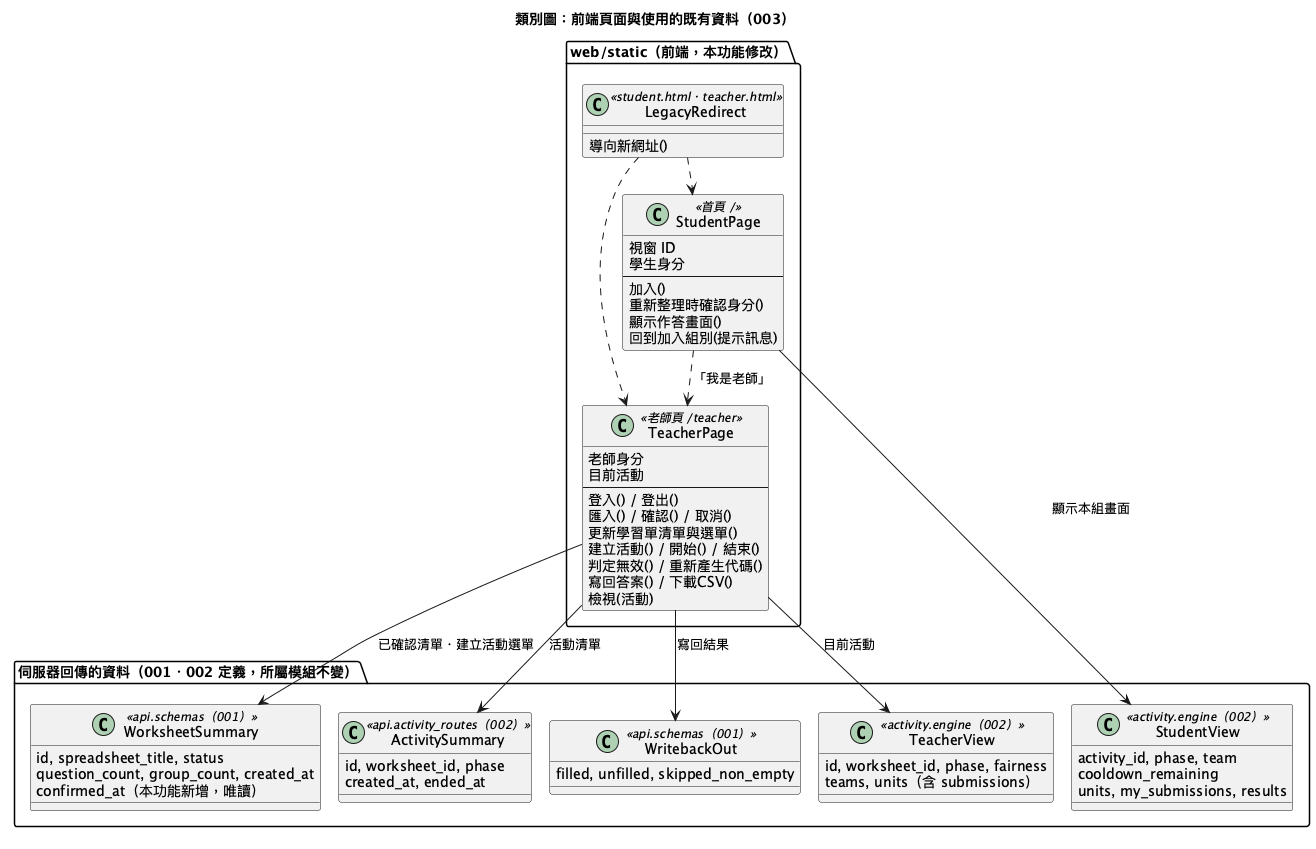
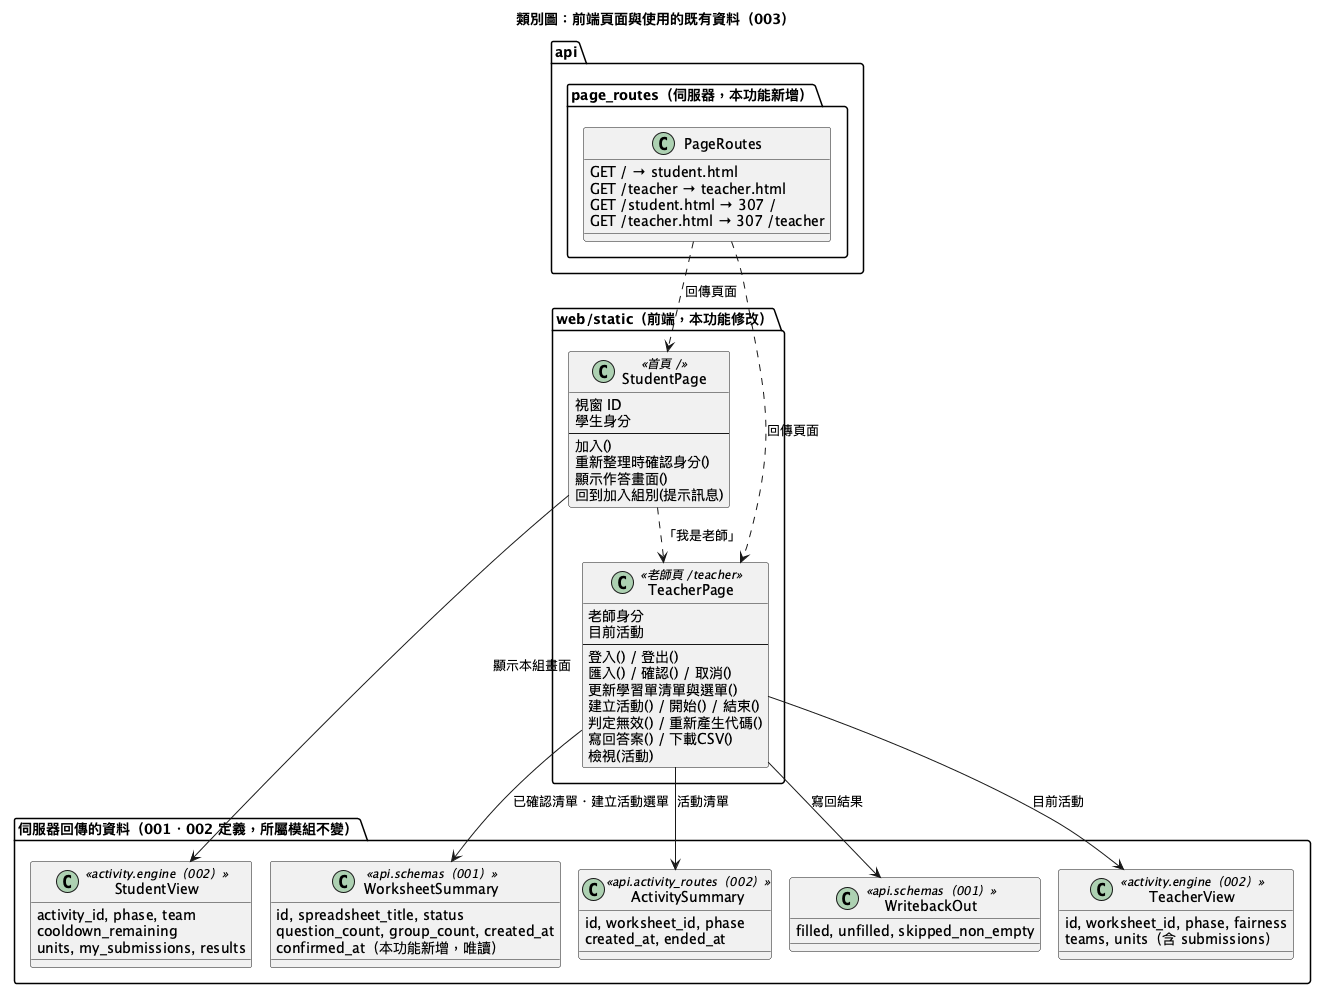
docs(003): 同步文件與圖表、記錄驗證結果（Phase 4）
- README：頁面網址、老師與學生操作說明改為首頁學生頁與 /teacher 單一老師頁
- 001：plan、quickstart、contracts（confirmed_at）、spec 註記、tasks 註記
- 002：plan；tasks、verification 加註後續變更（保留原紀錄）
- 類別圖：舊網址導向改畫在後端 api.page_routes（T021）
- 003 verification.md：278 passed；E-01～E-10 人工驗證（以範例 B 快照取代 Google）

Changed region(s): [[0.0, 0.0, 0.997, 0.98], [0.7789, 0.5819, 0.8723, 0.6125]]

diff --git a/README.md b/README.md
@@ -10,6 +10,7 @@
 |------|------|------|
 | 001 學習單匯入、答案寫回與結果匯出 | [specs/001-guided-notes-import](specs/001-guided-notes-import/) | 已實作 |
 | 002 線上分組搶答活動 | [specs/002-online-buzz-activity](specs/002-online-buzz-activity/) | 已實作 |
+| 003 入口頁與老師頁面對齊 OpenSpec 組 | [specs/003-align-entry-pages](specs/003-align-entry-pages/) | 已實作 |
 
 ## 前置需求
 
@@ -76,9 +77,10 @@ uv run python -m guided_buzz
 
 | 頁面 | 網址 | 誰使用 |
 |------|------|--------|
-| 學習單與結果（匯入、確認、寫回、匯出） | http://127.0.0.1:8000/ | 老師 |
-| 搶答主控台（建立活動、開始與結束、即時監控） | http://127.0.0.1:8000/teacher.html | 老師 |
-| 學生作答頁 | http://127.0.0.1:8000/student.html | 學生（各組） |
+| 學生頁（加入組別、作答、看結果） | http://127.0.0.1:8000/ | 學生（各組） |
+| 老師頁（匯入學習單、建立與進行活動、寫回、匯出，全部在同一頁） | http://127.0.0.1:8000/teacher ，或在首頁按「我是老師」 | 老師 |
+
+舊網址 `/student.html`、`/teacher.html` 會自動導向 `/`、`/teacher`。
 
 本專題只在單一電腦上運作：老師與各組學生都用**同一台電腦**的瀏覽器，開不同的**視窗或分頁**。
 每個視窗的身分各自獨立，例如一個視窗是老師、另外三個視窗分別是第一、二、三組，互不影響。
@@ -119,23 +121,27 @@ uv run python -m guided_buzz
 
 ## 老師操作說明
 
+老師的所有功能都在 http://127.0.0.1:8000/teacher 這一頁，由上而下依序是：匯入學習單、已確認的學習單、建立搶答活動、目前活動、活動清單。
+操作結果與錯誤訊息會顯示在畫面底部。
+
 ### 1. 匯入並確認學習單
 
-1. 開啟 http://127.0.0.1:8000/ ，輸入老師密碼登入。
+1. 開啟 http://127.0.0.1:8000/teacher （或在首頁按「我是老師」），輸入老師密碼登入。
 2. 在「匯入學習單」貼上 Google Sheets 試算表網址，按「匯入」。
    `login-google` 登入的 Google 帳號必須有這份試算表的編輯權限。
 3. 核對畫面上的題數、題組與每題的填空格位置，正確就按「**確認**」。
    只有已確認的學習單可以拿來建立搶答活動；不正確就按「取消」，修改學習單後重新匯入。
+   確認後，這份學習單會立即出現在「已確認的學習單」清單（含確認時間）與「建立搶答活動」的選單中，不用重新整理。
 
 ### 2. 建立搶答活動
 
-1. 點右上角「搶答主控台」，或開啟 http://127.0.0.1:8000/teacher.html （同一個視窗不用再登入）。
-2. 選擇剛確認的學習單。
+1. 在同一頁往下的「建立搶答活動」區塊進行。
+2. 選擇學習單（剛確認的那份會自動選好；名稱相近時，可對照「已確認的學習單」的確認時間）。
 3. 在「組別」欄位每行輸入一個組名，例如「第一組」「第二組」「第三組」（最多 20 組，組名不可重複）。
 4. 公平機制：勾選「啟用」時，某組成功題數比最少的組多 K 題以上，該組每次搶答成功後要冷卻 N 秒才能再送出。
    N、K 留空就用系統預設值（10 秒、2 題）。
-5. 按「建立活動」。畫面會出現：
-   - **活動 ID**：這場活動的編號，寫回與匯出時從選單選擇即可，不用自己記。
+5. 按「建立活動」。活動會顯示在「目前活動」區塊，並出現在「活動清單」中：
+   - **活動編號**：這場活動的編號。寫回與匯出時直接使用目前活動，不用自己記。
    - **組別代碼**：每組一組 6 碼代碼。請**私下**告訴各組（口頭或紙條），不要讓其他組看到。
 
 同一時間只能有一場準備中或搶答中的活動；要建立新活動，請先結束目前這場。
@@ -152,19 +158,20 @@ uv run python -m guided_buzz
 
 ### 4. 結束搶答、寫回學習單、匯出 CSV
 
-1. 按「**結束搶答**」：結果會寫入資料庫，學生畫面顯示完整結果。
-2. 回到 http://127.0.0.1:8000/ ，在「寫回答案與匯出結果」的「已結束的活動」選單選擇這場活動
-   （學習單 ID 與活動 ID 會自動填入；沒看到就按「重新整理清單」）。
-3. 按「**寫回學習單**」：每題搶答成功組別的答案會寫入原本 Google Sheets 的填空格；已有內容的格子不會被覆蓋。
-4. 按「**匯出結果 CSV**」：下載題號、組別、答案、搶答順位、結果（成功／未搶到／無效）的 CSV，可用 Excel 或 Google Sheets 開啟。
+1. 按「**結束搶答**」：結果會寫入資料庫，學生畫面顯示完整結果；「目前活動」區塊出現「寫回答案」與「下載 CSV」。
+2. 按「**寫回答案**」：每題搶答成功組別的答案會寫入這場活動所用學習單的 Google Sheets 填空格；已有內容的格子不會被覆蓋。
+   畫面會列出已填入、沒有成功答案（維持空白）、已有內容未覆蓋的題號。
+3. 按「**下載 CSV**」：下載題號、組別、答案、搶答順位、結果（成功／未搶到／無效）的 CSV，可用 Excel 或 Google Sheets 開啟。
+   沒有任何送出時會顯示「此活動沒有任何送出紀錄」。
+4. **過去的活動**：在「活動清單」按該場的「檢視」，它會顯示在「目前活動」區塊，已結束的活動可以在那裡寫回或下載 CSV。
 
-伺服器重新啟動時，尚未結束的活動會標示為「已中斷」，需要重新建立；已結束的活動結果會保留，仍可寫回與匯出。
+伺服器重新啟動時，尚未結束的活動會標示為「已中斷」，需要重新建立；已結束的活動結果會保留，仍可從「活動清單」檢視、寫回與匯出。
 
 ## 學生操作說明
 
-1. 在同一台電腦開一個新的瀏覽器視窗（或分頁），網址輸入 http://127.0.0.1:8000/student.html 。
-2. 輸入老師給的 6 碼**組別代碼**（不分大小寫），按「加入」。畫面上方會顯示組名，階段顯示「準備中（等待老師開始）」。
-   同一組可以開好幾個視窗加入，看到的內容相同。
+1. 在同一台電腦開一個新的瀏覽器視窗（或分頁），網址輸入 http://127.0.0.1:8000/ ，畫面會顯示「加入組別」。
+2. 輸入老師給的 6 碼**組別代碼**（不分大小寫），按「加入」。同一頁會切換成作答畫面（網址不變），上方顯示組名，階段顯示「準備中（等待老師開始）」。
+   同一組可以開好幾個視窗加入，看到的內容相同；重新整理頁面也會維持原本的組別。
 3. 老師按「開始搶答」後，階段變成「搶答中」，所有題目同時開放，可以依任何順序作答：
    - 畫面只顯示題號（例如「第 5 題（學習單第 3 題）」），題目內容請看手上的學習單。
    - 在題目下方的輸入框填答案，按「送出」。**題組**要把裡面每一題都填完才能送出。

diff --git a/specs/003-align-entry-pages/verification.md b/specs/003-align-entry-pages/verification.md
@@ -1,0 +1,54 @@
+# Verification Record: 入口頁與老師頁面對齊 OpenSpec 組
+
+**Feature**: [spec.md](./spec.md) | **Quickstart**: [quickstart.md](./quickstart.md) | **Tasks**: T023、T024
+
+依 Constitution 原則 VI 記錄測試指令、結果與人工驗證。
+
+## 環境
+
+| 項目 | 內容 |
+|------|------|
+| 日期 | 2026-11-27 |
+| 系統 | macOS，Python 3.12（uv 管理） |
+| 伺服器 | 真正的 uvicorn（`workers=1`），連接埠 8765；Google Sheets 以範例 B 的 API 快照（`FakeSheetsGateway`）取代，不連線 Google |
+| 瀏覽器 | Claude 桌面 App 內建瀏覽器，同一個瀏覽器開多個分頁：1 個老師、最多 2 個學生 |
+| 操作方式 | 由 AI 在瀏覽器實際點擊與輸入；網址、畫面狀態、訊息以頁面內容與伺服器 log 核對 |
+
+## 自動化測試（T023）
+
+```bash
+uv run pytest -v
+```
+
+| 結果 | 說明 |
+|------|------|
+| 278 passed | 001、002 既有的 262 個全部通過，代表伺服器行為沒有改變（SC-005）；003 新增 16 個（`test_pages.py` 15 個、`test_worksheet_api.py` 1 個） |
+
+## 人工驗證（T024，quickstart V1–V8）
+
+| 驗收情境 | 結果 | 觀察到的結果 |
+|---------|------|-------------|
+| E-01 首頁 | ✅ | 有「加入組別」、說明文字、組別代碼欄位，「加入」「我是老師」並排；沒有密碼欄 |
+| E-02 加入 | ✅ | 加入第一組後，同一頁顯示作答畫面，網址仍是 `/`；「加入組別」與「我是老師」都隱藏 |
+| E-03 我是老師 | ✅ | 網址變成 `/teacher`，只顯示「老師登入」 |
+| E-04 老師登入 | ✅ | 網址仍是 `/teacher`；頁首只有「登出」，整頁沒有 `<a>` 連結；5 個區塊依序排列；沒有資料時顯示「目前沒有活動」「尚無已確認的學習單」 |
+| E-05 匯入並確認 | ✅ | 確認後不需要重新整理：已確認清單出現這份學習單（含確認時間），建立活動的選單也自動選好它 |
+| E-06 單頁完成活動 | ✅ | 依序建立、開始、學生送出第 5 題、判定無效（沒有下一順位，所以重新開放）、學生送出第 6 題、結束；結束後才出現「寫回答案」「下載 CSV」。寫回時自動帶入活動與學習單，結果為已填第 6 題，第 1～5 題維持空白；全程網址都是 `/teacher`，沒有輸入任何 ID |
+| E-07 活動清單 | ✅ | 建立並結束第二場（沒有任何送出）後，清單有 2 列；按第一場的「檢視」，「目前活動」換成第一場。再次寫回時，第 6 題列為「已有內容、未覆蓋」 |
+| E-08 多視窗與重新整理 | ✅ | 第一組、第二組各自重新整理後身分不變，互不影響；老師頁重新整理後維持登入，並回到原本檢視的那一場 |
+| E-09 身分失效 | ✅ | 老師重新產生第一組代碼後，第一組視窗回到「加入組別」，並顯示「老師已重新產生本組代碼…」，第二組不受影響。伺服器重啟後，學生視窗自動回到「加入組別」，並顯示「活動已中斷，請老師重新建立。」 |
+| E-10 舊網址 | ✅ | `/student.html` 被導向 `/`；`/teacher.html` 回 307、`Location: /teacher`（自動化測試） |
+| V8 登出（FR-021） | ✅ | 回到「老師登入」，網址維持 `/teacher`；伺服器 log 中，WebSocket 連線數在登出後沒有增加，代表沒有自動重連 |
+| FR-019 檢視已中斷活動 | ✅ | 顯示「活動已中斷（伺服器曾重新啟動），請老師重新建立活動。」，「目前活動」維持原本那一場 |
+| FR-017 CSV 筆數 | ✅（後端） | 目前活動的 CSV 端點回 200，`X-Record-Count` 分別為 2 和 0。沒有點擊下載按鈕，以免把檔案存到使用者電腦 |
+
+## 驗證中的發現與處理
+
+1. **訊息區在長頁面上看不到**：老師頁合併後變得很長，訊息區又在頁尾，捲到上面操作時看不到結果與錯誤。學生頁冷卻時被拒的訊息也有同樣問題（002 驗證時曾連按 28 次）。已把訊息區改成固定在畫面底部（`style.css`，T017）。
+2. **類別圖與實作不一致**：圖中把舊網址導向畫成前端元件，實際是後端 `api.page_routes` 處理。已更新類別圖（T021）。
+
+## 未涵蓋
+
+- 這次以 API 快照取代 Google，沒有連線真實的 Google Sheets。寫回與匯出的後端程式本功能沒有修改，真實環境的寫回已在 002 的 2026-11-27 完整驗證中通過；不過新老師頁的「寫回答案」按鈕，還沒有在真實 Google 上按過。
+- 「下載 CSV」按鈕沒有實際點擊，只驗證了同一個端點與筆數。
+- 沒有在 Chrome、Safari 等一般瀏覽器上操作，只用了內建瀏覽器。

diff --git a/specs/003-align-entry-pages/tasks.md b/specs/003-align-entry-pages/tasks.md
@@ -189,13 +189,13 @@ description: "Task list for 003 入口頁與老師頁面對齊 OpenSpec 組"
 
 **Purpose**：完成 FR-029 的文件同步、原則 VII 的圖表驗證，以及 E-01～E-10 的完整人工驗證。
 
-- [ ] T018 [P] 依 plan.md「文件與圖表同步清單」更新 README.md 的以下段落：
+- [X] T018 [P] 依 plan.md「文件與圖表同步清單」更新 README.md 的以下段落：
   - 「頁面網址」表
   - 「1. 匯入並確認學習單」
   - 「2. 建立搶答活動」
   - 「4. 結束搶答、寫回學習單、匯出 CSV」
   - 「學生操作說明」
-- [ ] T019 [P] 依 plan.md 同步清單更新 001 的文件：
+- [X] T019 [P] 依 plan.md 同步清單更新 001 的文件：
   - **改寫內容**：
     - specs/001-guided-notes-import/plan.md（Scale/Scope 與 web/static 結構）
     - specs/001-guided-notes-import/quickstart.md（第 78 行網址）
@@ -203,18 +203,18 @@ description: "Task list for 003 入口頁與老師頁面對齊 OpenSpec 組"
   - **只加註記**：
     - specs/001-guided-notes-import/spec.md（Clarifications 補一行）
     - specs/001-guided-notes-import/tasks.md（開頭）
-- [ ] T020 [P] 依 plan.md 同步清單更新 002 的文件：
+- [X] T020 [P] 依 plan.md 同步清單更新 002 的文件：
   - **改寫內容**：specs/002-online-buzz-activity/plan.md（Scale/Scope 與 web/static 結構）。
   - **只加註記，保留原文**：specs/002-online-buzz-activity/tasks.md（開頭）、specs/002-online-buzz-activity/verification.md（環境表下方）。
-- [ ] T021 對照最終程式碼檢查以下圖表（原則 VII 實作階段驗證）：
+- [X] T021 對照最終程式碼檢查以下圖表（原則 VII 實作階段驗證）：
   - diagrams/003-align-entry-pages/ 的 5 張圖
   - diagrams/001-guided-notes-import/06-component.puml
   - diagrams/002-online-buzz-activity/09-component.puml
   - 不一致時先更新 `.puml`，在 repo 根目錄執行 `plantuml -tpng "./diagrams/**/*.puml"`，再同步 specs/003-align-entry-pages/diagrams.md。
-- [ ] T022 在 README.md、specs/001-guided-notes-import/、specs/002-online-buzz-activity/、src/ 中 grep 以下字串：`student.html`、`teacher.html`、`搶答主控台`、`學習單與結果`、`寫回答案與匯出結果`。
+- [X] T022 在 README.md、specs/001-guided-notes-import/、specs/002-online-buzz-activity/、src/ 中 grep 以下字串：`student.html`、`teacher.html`、`搶答主控台`、`學習單與結果`、`寫回答案與匯出結果`。
   - 確認除了 T019、T020 的歷史註記、檔案名稱本身（例如 `teacher.html` 這個原始檔），以及 `page_routes.py` 的導向路由之外，沒有其他指向舊入口的說明（FR-029）。
-- [ ] T023 執行 `uv run pytest -v`（tests/ 全部），回報測試指令、通過數與失敗數，失敗時附上輸出（原則 VI、SC-005）。
-- [ ] T024 依 specs/003-align-entry-pages/quickstart.md 的 V1–V8，人工驗證 E-01～E-10：
+- [X] T023 執行 `uv run pytest -v`（tests/ 全部），回報測試指令、通過數與失敗數，失敗時附上輸出（原則 VI、SC-005）。
+- [X] T024 依 specs/003-align-entry-pages/quickstart.md 的 V1–V8，人工驗證 E-01～E-10：
   - 結果記錄在 specs/003-align-entry-pages/verification.md，格式參考 specs/002-online-buzz-activity/verification.md。
   - 回報人工驗證結果。
 

diff --git a/specs/002-online-buzz-activity/plan.md b/specs/002-online-buzz-activity/plan.md
@@ -36,7 +36,7 @@ auth、api 骨架，並使用 001 確認後的 `ParsedWorksheet`。
 **Constraints**: 單一程序（記憶體中的狀態與鎖）；學生不可取得他組資料（FR-014）；組別代碼與 Token 不寫入 log；
 參數全部可以設定（research R10）
 
-**Scale/Scope**: 同時只有一場活動；組數 ≤ 20（可設定）；搶答單位 ≤ 500；學生頁面與老師主控台各一個
+**Scale/Scope**: 同時只有一場活動；組數 ≤ 20（可設定）；搶答單位 ≤ 500；學生頁 `/` 與老師頁 `/teacher` 各一個（003 起；老師頁含匯入、寫回與匯出）
 
 ## Constitution Check
 
@@ -105,8 +105,8 @@ src/guided_buzz/
 │   ├── activity_routes.py       # 老師端
 │   └── student_routes.py        # 加入、送出、/me、結果、公開的 phase
 └── web/static/
-    ├── teacher.html / teacher.js # 活動主控台
-    └── student.html / student.js # 學生頁面
+    ├── teacher.html / teacher.js # 老師頁 /teacher（003 起併入匯入、寫回與匯出）
+    └── student.html / student.js # 學生頁（003 起為首頁 /）
 
 tests/
 ├── unit/

diff --git a/specs/003-align-entry-pages/diagrams.md b/specs/003-align-entry-pages/diagrams.md
@@ -28,6 +28,10 @@ plantuml -tpng "./diagrams/**/*.puml"
 ![類別圖](../../diagrams/003-align-entry-pages/04-class.png)
 ![狀態圖](../../diagrams/003-align-entry-pages/05-state-window.png)
 
+## 實作後驗證（T021，2026-11-27）
+
+已對照最終程式碼檢查 5 張圖與 001、002 的組件圖。類別圖原本把舊網址導向畫成前端元件，實際是由後端 `api.page_routes` 以 307 導向，已更新 `.puml` 與 PNG；其餘圖表與程式一致。
+
 ## 設計規則
 
 - 頁面只負責顯示與呼叫既有 API。誰能做什麼、誰先搶到，都由伺服器判定，與 001、002 相同。

diff --git a/specs/001-guided-notes-import/tasks.md b/specs/001-guided-notes-import/tasks.md
@@ -5,6 +5,8 @@ description: "Task list for 001 學習單匯入、答案寫回與結果匯出"
 
 # Tasks: 學習單匯入、答案寫回與結果匯出
 
+> **後續變更（003，2026-11-27）**：T032、T041、T047 的老師頁面已併入 `/teacher`（`teacher.html`、`teacher.js`），`index.html`、`app.js` 已刪除；以下任務內容保留當時的實作紀錄。
+
 **Input**: Design documents from `/specs/001-guided-notes-import/`
 
 **Prerequisites**: plan.md, spec.md, research.md, data-model.md, diagrams.md（圖表原始檔在 `diagrams/001-guided-notes-import/`）, contracts/, quickstart.md

diff --git a/specs/001-guided-notes-import/contracts/http-api.md b/specs/001-guided-notes-import/contracts/http-api.md
@@ -101,7 +101,8 @@
 
 ## GET /api/worksheets
 
-200：`[{"id", "spreadsheet_title", "status", "question_count", "group_count", "created_at"}]`，只列出本人擁有的學習單。
+200：`[{"id", "spreadsheet_title", "status", "question_count", "group_count", "created_at", "confirmed_at"}]`，只列出本人擁有的學習單。
+`confirmed_at` 由 003 新增（[003 api-changes](../../003-align-entry-pages/contracts/api-changes.md)）：已確認時為 ISO 8601 字串，待確認或已取消時為 `null`。
 
 ## POST /api/worksheets/{id}/writeback
 

diff --git a/specs/002-online-buzz-activity/tasks.md b/specs/002-online-buzz-activity/tasks.md
@@ -5,6 +5,8 @@ description: "Task list for 002 線上分組搶答活動"
 
 # Tasks: 線上分組搶答活動
 
+> **後續變更（003，2026-11-27）**：T028、T029、T037、T044、T050、T056、T058 提到的頁面已調整，學生頁改為 `/`，老師頁改為 `/teacher`（含匯入、寫回與匯出）；以下任務內容保留當時的實作紀錄。
+
 **Input**: Design documents from `/specs/002-online-buzz-activity/`
 
 **Prerequisites**: plan.md, spec.md, research.md, data-model.md, diagrams.md, contracts/, quickstart.md；

diff --git a/specs/002-online-buzz-activity/verification.md b/specs/002-online-buzz-activity/verification.md
@@ -13,6 +13,8 @@
 | 操作方式 | 同一台電腦、同一個瀏覽器的多個視窗：老師視窗（`/`、`/teacher.html`）與各組學生視窗（`/student.html`） |
 | 學習單 | 以 Google Sheets 匯入並確認的 Guided Notes |
 
+> 當時的入口為 `/`、`/teacher.html`、`/student.html`；003 起改為學生 `/`、老師 `/teacher`，舊網址會自動導向。以下紀錄保留原樣。
+
 ## 自動化測試
 
 ```bash

diff --git a/specs/001-guided-notes-import/spec.md b/specs/001-guided-notes-import/spec.md
@@ -10,6 +10,8 @@
 
 ## Clarifications
 
+> 2026-11-27：老師與學生的入口改由 [003](../003-align-entry-pages/spec.md) 定義（老師 `/teacher`、學生 `/`），本規格的需求不變。
+
 ### Session 2026-11-22
 
 - Q: 學習單中的填空格是如何標記的？ → A: 學習單是 Google Sheet，填空格就是試算表中的一個空白儲存格。
